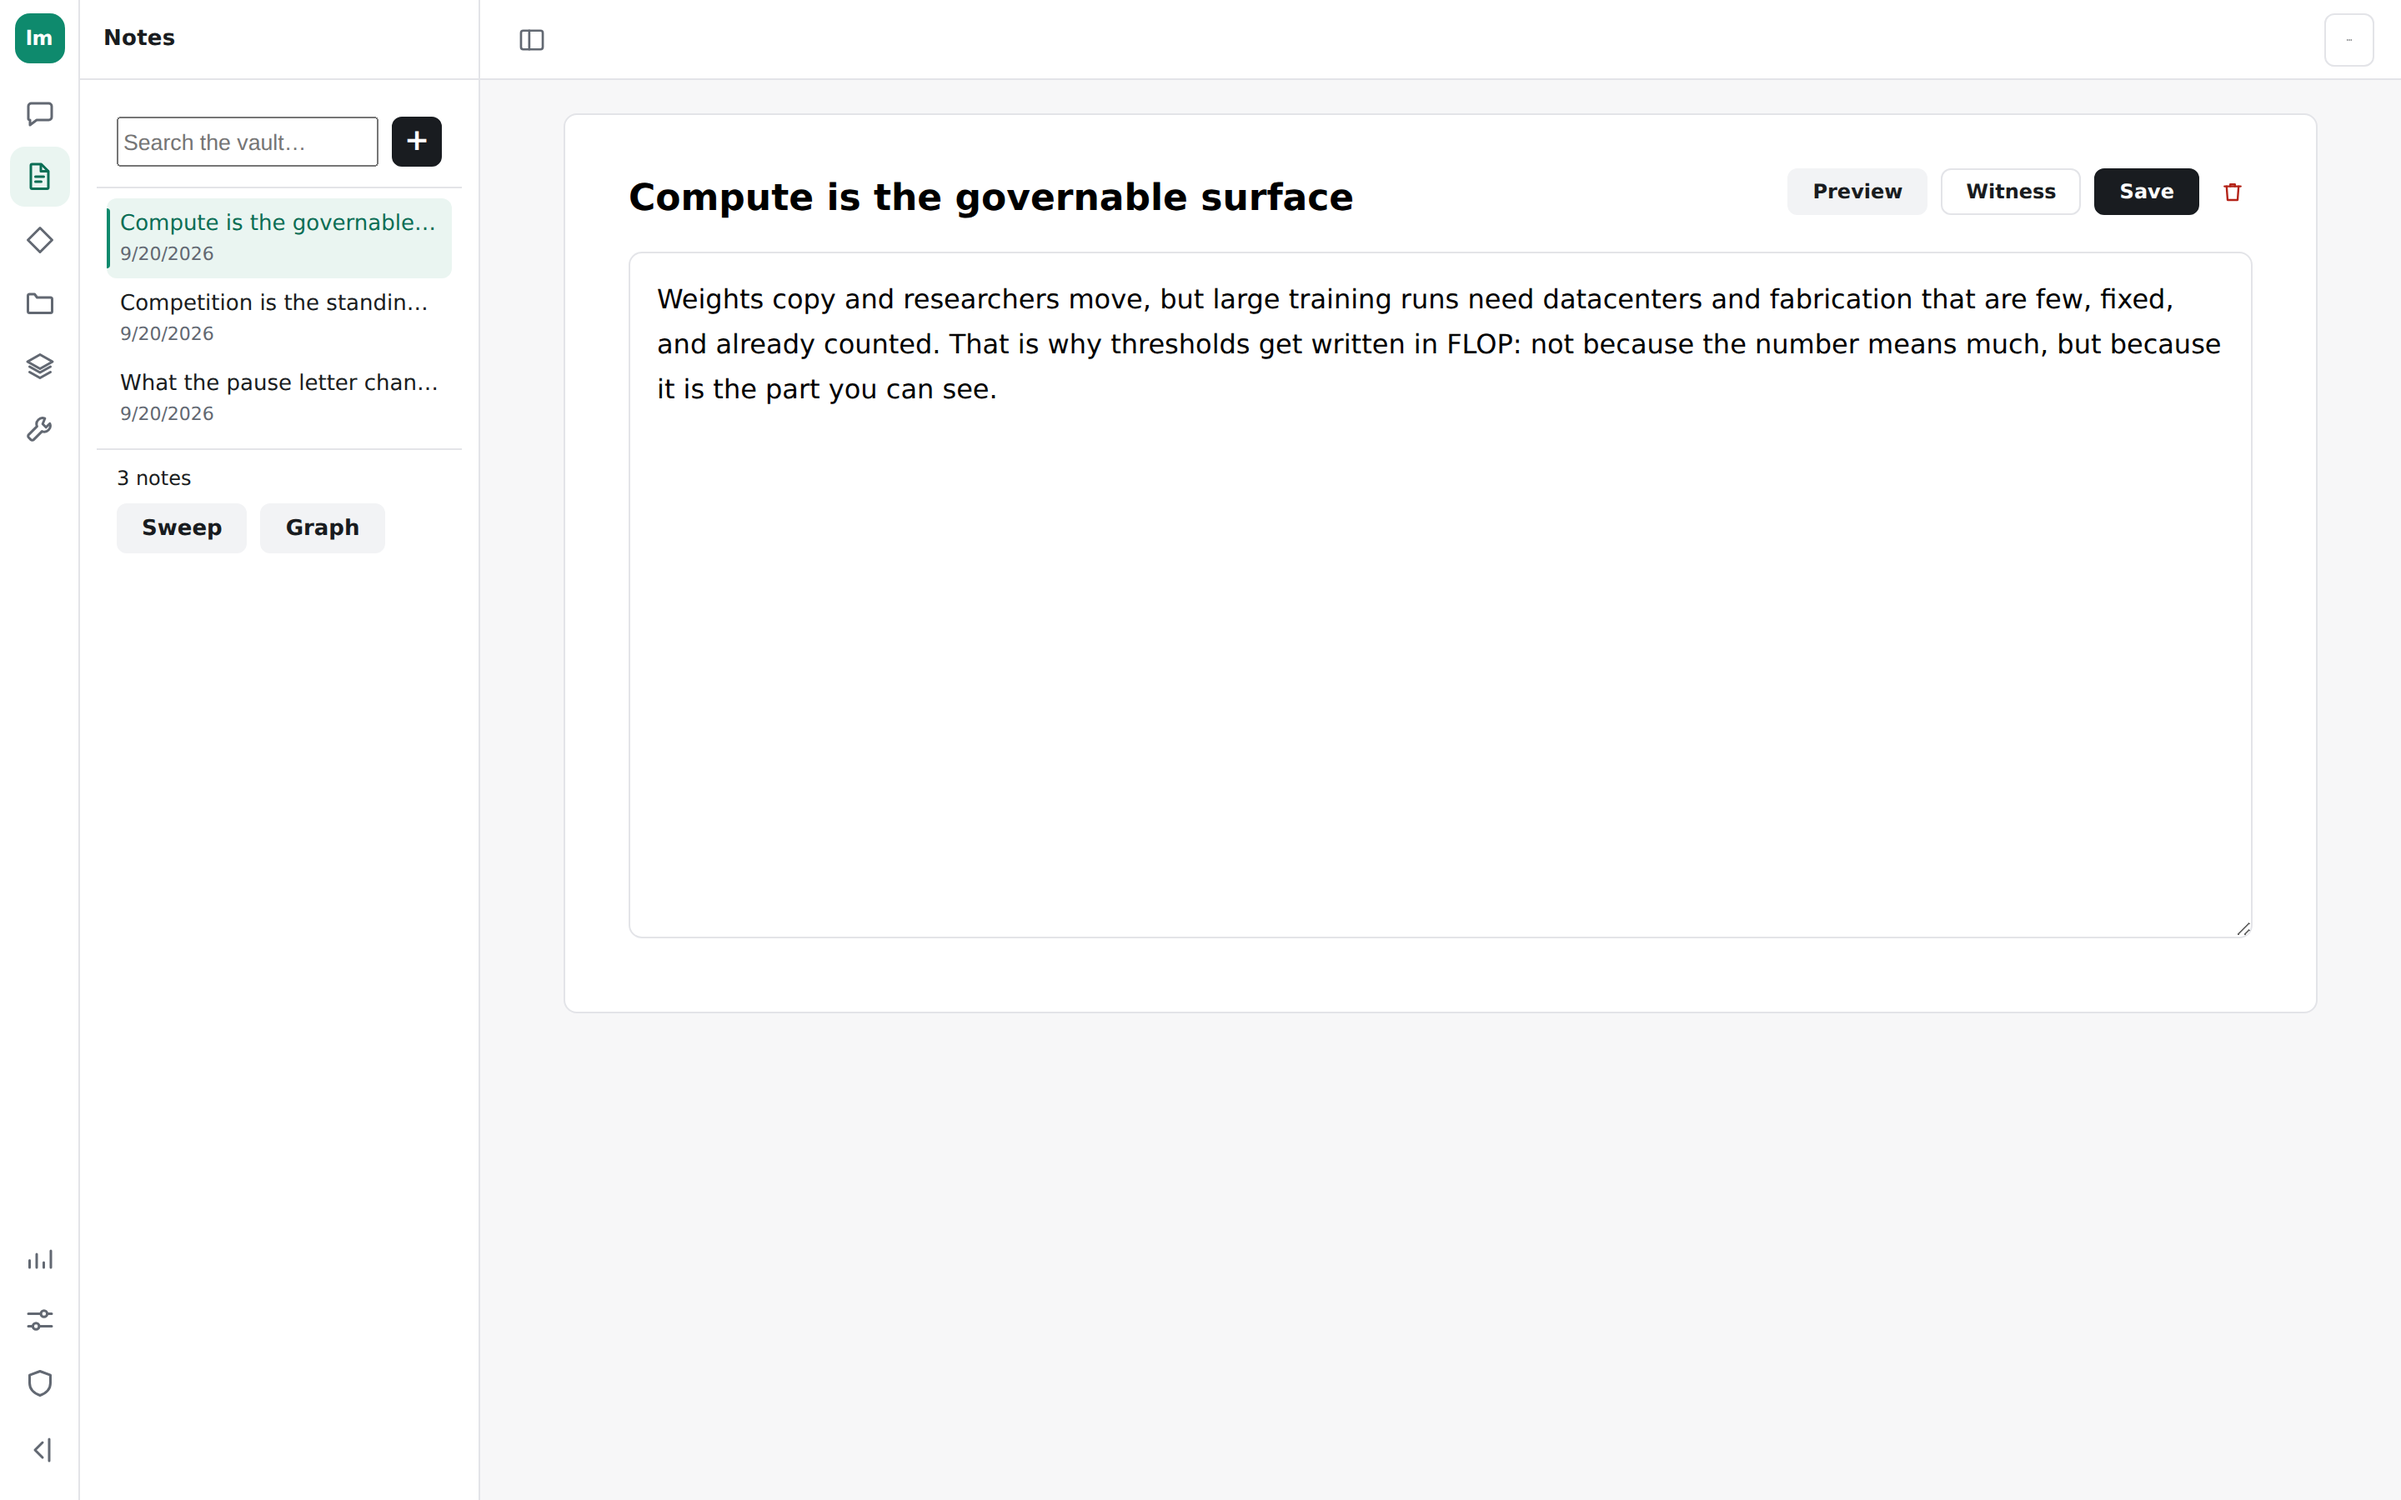
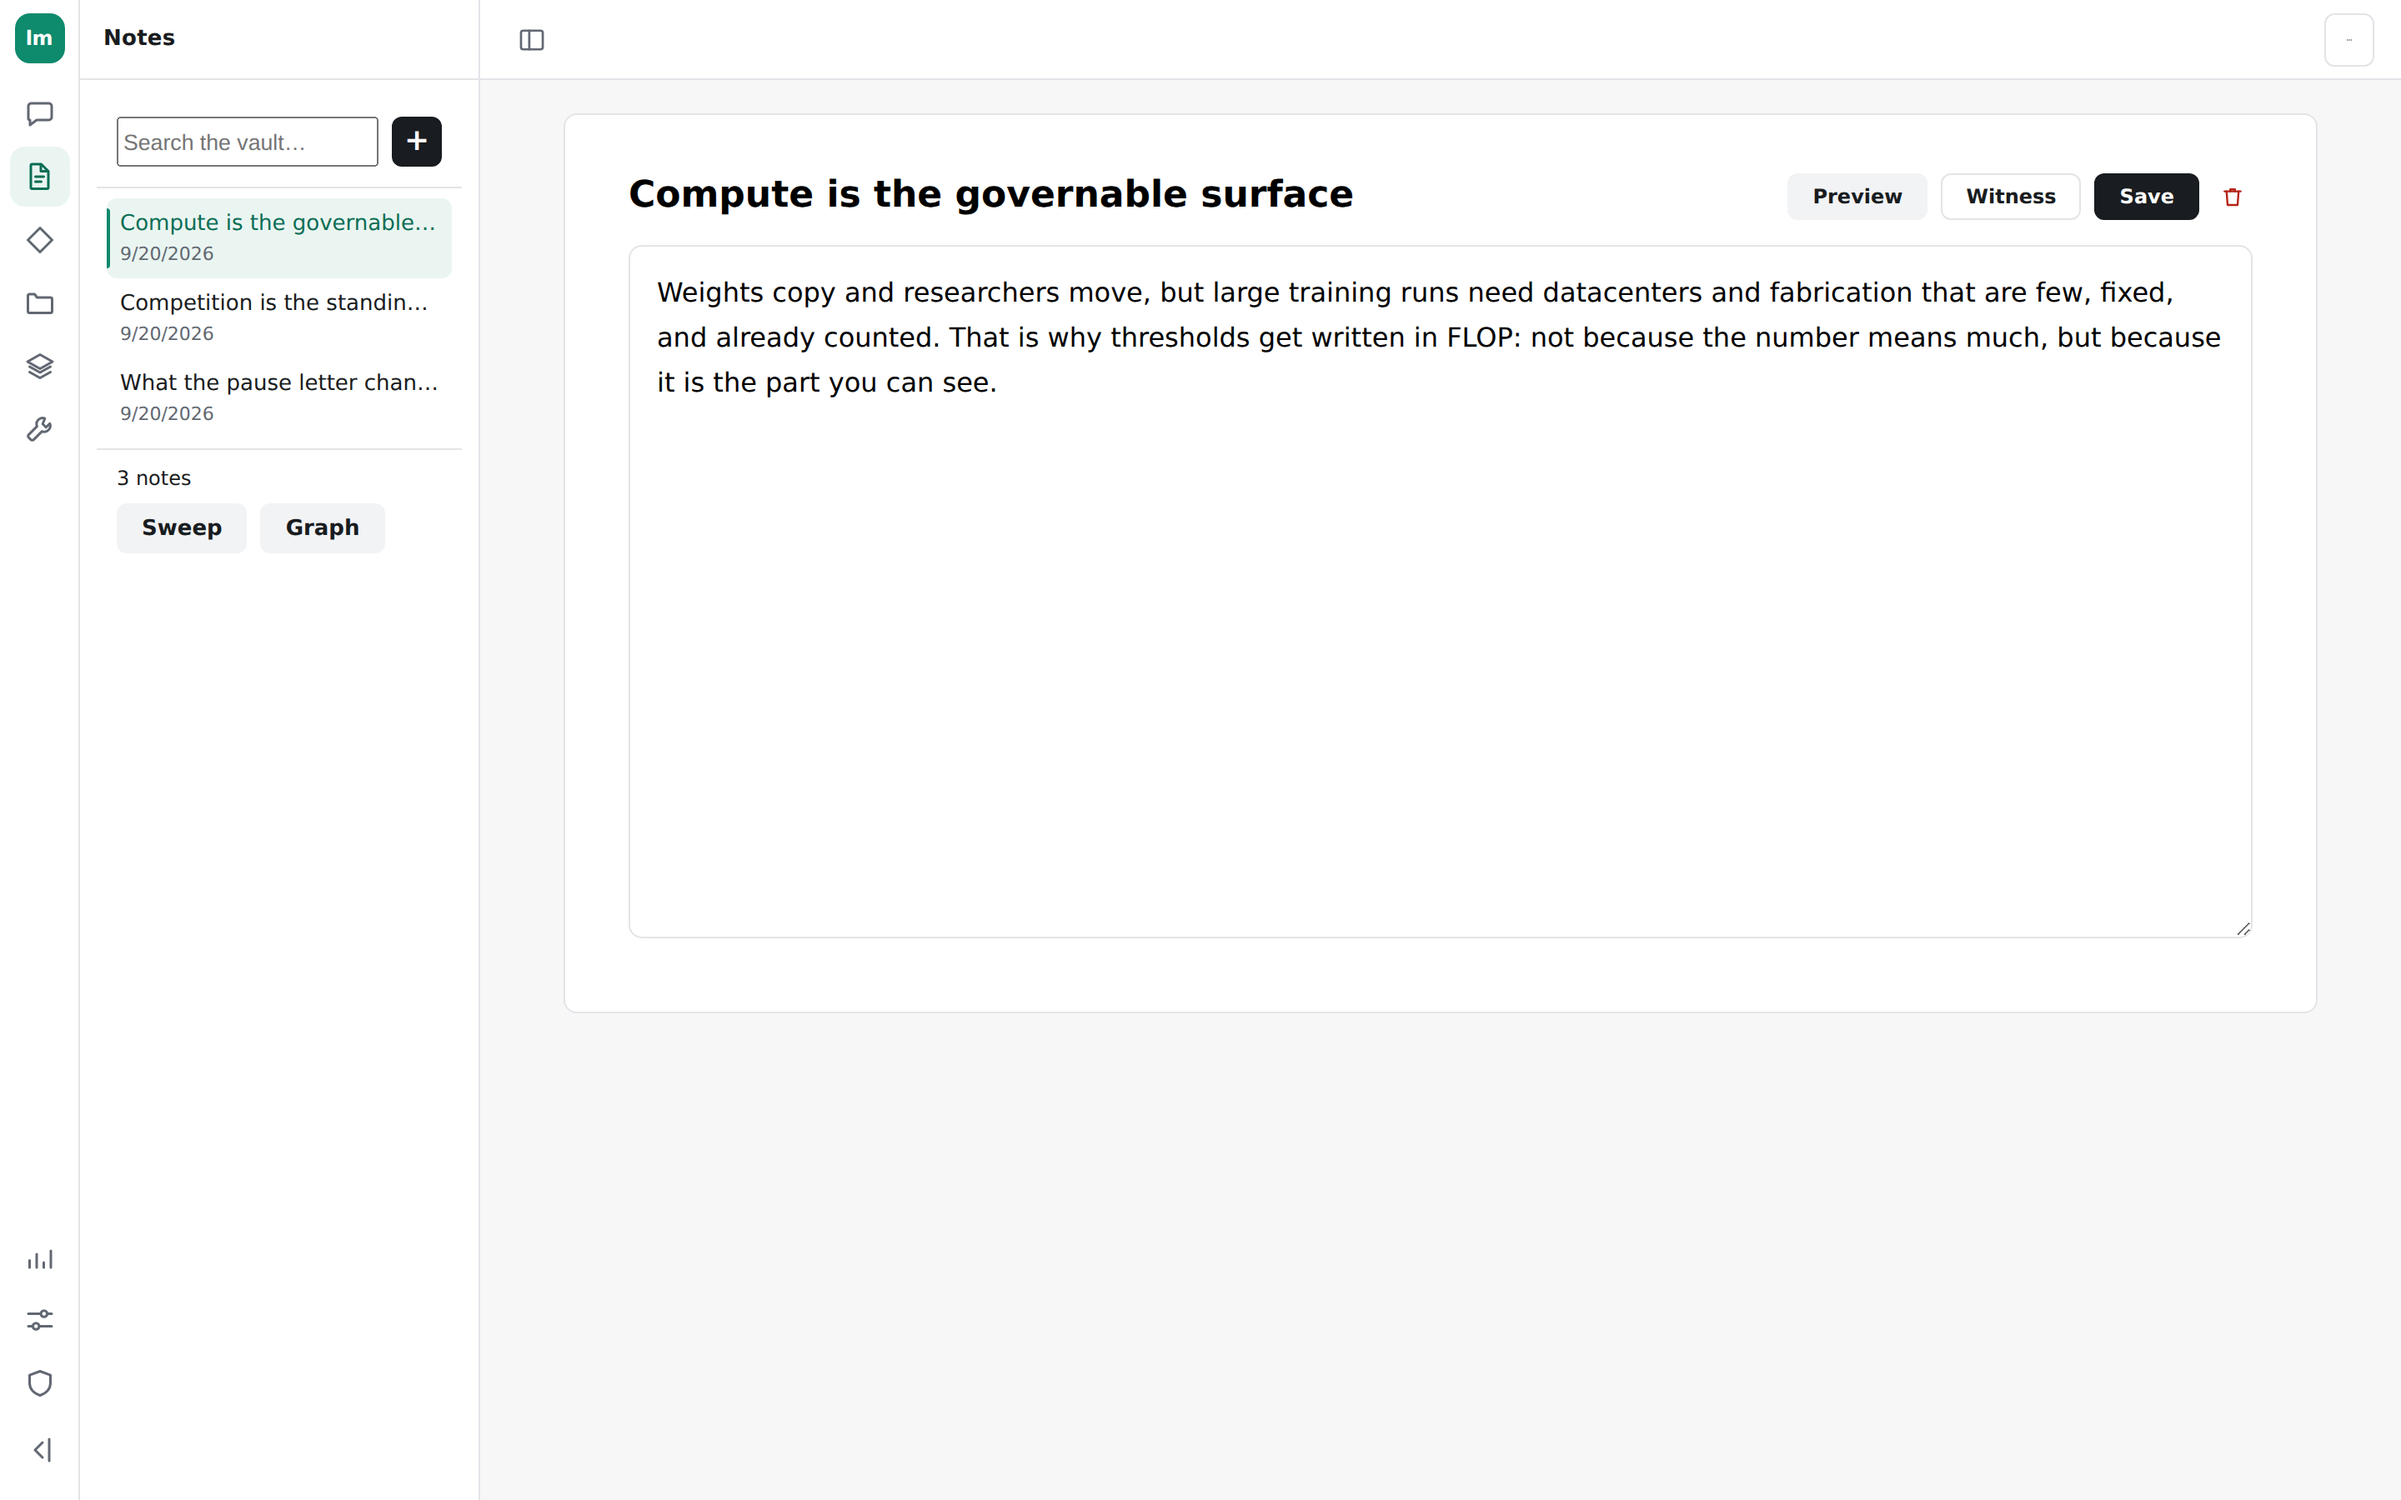
Three spacing and cascade defects review found, all reproduced first
**The note toolbar's overrides never applied.** `.note-toolbar` set
`flex-wrap: nowrap` and `margin: 0` over `.utility-strip`, but a bare class
ties with a bare class and the later rule wins - and `.utility-strip` is
declared further down this file. Measured: `flex-wrap: wrap` and
`margin-bottom: 10px` on an element wearing both names. That is the third
time this repository has met this shape, after `button.ghost` outranking
`.voice-btn` and the appended duplicate `.icon-btn`, so the rule is
`.utility-strip.note-toolbar` - two names on the element beat one, whatever
the order.

**The empty state cue took a gap.** It is a flex item with or without
content, so `.note-editor-head`'s 12px gap was counted twice and the title
was 12px short for ever, measured at 24px between the title and the toolbar
with nothing in between. `:empty` hides it.

**The file heading sat apart from its rows.** `.files-list` carried
`margin-top: 12px` from when a Refresh strip sat above the list. The refresh
moved into the band and a column heading took its place, so that margin fell
between the heading and the rows it labels: 12px to the band above and 12px
to the table below, equidistant from the thing it belongs to. Measured at 0
to the first row now.

One witness for the two that can regress silently. It asserts the toolbar's
computed wrap and margin, and that an empty cue costs no more than the
head's own gap - a property rather than a pixel count. Its control types
[…]

Changed region(s): [[0.2812, 0.1867, 0.9375, 0.28], [0.25, 0.1244, 0.5625, 0.1556], [0.75, 0.0933, 0.9062, 0.1556]]

diff --git a/frontend/styles.css b/frontend/styles.css
@@ -2704,11 +2704,16 @@ button.minor:hover {
 }
 
 /* Files list */
+/* No top margin. It was here to clear a Refresh strip that sat above the
+   list; the refresh moved into the band and a column heading took its
+   place, so the margin fell between the heading and the rows it labels and
+   left the heading equidistant from the band above and the table below -
+   measured at 12px to each. A heading belongs to its columns.
+   Rows still get their own gap. */
 .files-list {
   display: flex;
   flex-direction: column;
   gap: 6px;
-  margin-top: 12px;
 }
 
 /* The files library is `.row` now: a type glyph, the name, size and age on
@@ -2877,9 +2882,23 @@ button.minor:hover {
   white-space: nowrap;
 }
 
-/* Compact tier, and no wrapping: these act on the note beside them rather
-   than being the page's own actions. */
-.note-toolbar {
+/* Empty when the note is saved, and then it must not take a gap. A flex
+   item with no content is still an item, so `.note-editor-head`'s 12px
+   gap was counted twice and the title lost 12px for ever - measured at
+   24px between the title and the toolbar with nothing in between. */
+.note-state:empty {
+  display: none;
+}
+
+/* `.utility-strip.note-toolbar`, not `.note-toolbar`. A bare class ties
+   with `.utility-strip` and the later rule wins, which is source order -
+   and `.utility-strip` is declared later in this file, so `flex-wrap:
+   nowrap` and `margin: 0` here never applied and the editor's actions
+   wrapped on a narrow editor. The same trap as `button.ghost` outranking
+   `.voice-btn`: two names on the element beat one.
+   Compact tier and no wrapping, because these act on the note beside them
+   rather than being the page's own actions. */
+.utility-strip.note-toolbar {
   flex: none;
   flex-wrap: nowrap;
   margin: 0;

diff --git a/tests/test_browser_files_and_notes.py b/tests/test_browser_files_and_notes.py
@@ -234,6 +234,72 @@ class TestTheNoteEditorSaysWhatStateItIsIn:
         finally:
             context.close()
 
+    def test_the_toolbar_keeps_its_own_geometry_and_the_cue_costs_nothing(
+        self, browser, server
+    ):
+        """Two overrides a bare class name loses, and a gap nothing fills.
+
+        `.note-toolbar` sets `flex-wrap: nowrap` and `margin: 0` over
+        `.utility-strip`'s wrap and bottom margin. Written as a bare class
+        it ties on specificity with `.utility-strip`, which is declared
+        later in the stylesheet and therefore wins - the same trap as
+        `button.ghost` outranking `.voice-btn`, and the reason the rule is
+        `.utility-strip.note-toolbar`. Nothing about that is visible from
+        either rule on its own.
+
+        The cue beside the title is a flex item whether or not it has
+        content, so while it was empty the head's gap was counted twice and
+        the title lost 12px for ever.
+        """
+        context, page = self._with_a_note(browser, server)
+        try:
+            measured = page.evaluate(
+                """() => {
+                  const bar = document.querySelector('.note-toolbar');
+                  const head = document.querySelector('.note-editor-head');
+                  const title = document.querySelector('#note-title');
+                  const cs = getComputedStyle(bar);
+                  return {
+                    wrap: cs.flexWrap,
+                    marginBottom: cs.marginBottom,
+                    headGap: Math.round(parseFloat(getComputedStyle(head).gap)),
+                    titleToToolbar: Math.round(
+                      bar.getBoundingClientRect().left
+                      - title.getBoundingClientRect().right),
+                  };
+                }"""
+            )
+            assert measured["wrap"] == "nowrap", (
+                "the toolbar wraps, so `.utility-strip` is winning the "
+                f"cascade: {measured}"
+            )
+            assert measured["marginBottom"] == "0px", measured
+            assert measured["titleToToolbar"] == measured["headGap"], (
+                "an empty cue is costing a gap: the title is "
+                f"{measured['titleToToolbar']}px from the toolbar where the "
+                f"head's gap is {measured['headGap']}px"
+            )
+
+            # The control for that last one: the measurement has to be able
+            # to see a difference, or equality above means nothing.
+            page.fill("#note-content", "something, so the cue appears")
+            page.wait_for_timeout(300)
+            dirty = page.evaluate(
+                """() => {
+                  const bar = document.querySelector('.note-toolbar');
+                  const title = document.querySelector('#note-title');
+                  return Math.round(bar.getBoundingClientRect().left
+                    - title.getBoundingClientRect().right);
+                }"""
+            )
+            assert dirty > measured["titleToToolbar"], (
+                "the gap did not grow when the cue appeared, so this probe "
+                f"cannot tell the two states apart: {dirty} against "
+                f"{measured['titleToToolbar']}"
+            )
+        finally:
+            context.close()
+
     def test_deleting_a_note_asks_first_and_a_refusal_keeps_it(
         self, browser, server
     ):
